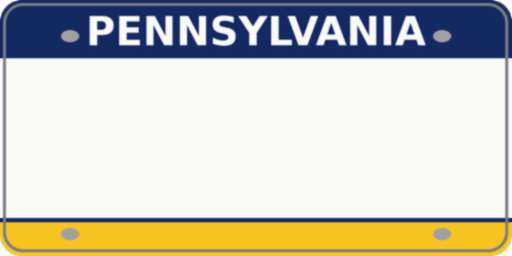
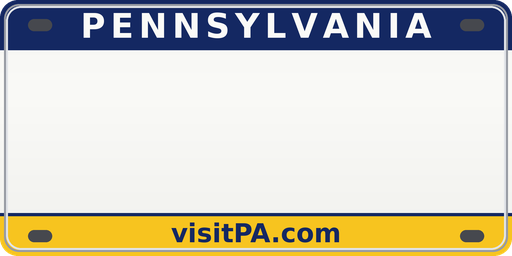
Heat as 1-5 stars, a star every 3 min of chase, fines by stars ($100 ticket for pulling over); realistic PA plate (keystone separator, visitPA band)
Claude-Session: https://claude.ai/code/session_01Um1Pid8zZd1Yuh4KwmS9F8

Changed region(s): [[0.0, 0.0, 1.0, 1.0]]

diff --git a/mod/beamng_earth/ui/modules/apps/BeamNGEarthWallet/app.js b/mod/beamng_earth/ui/modules/apps/BeamNGEarthWallet/app.js
@@ -7,7 +7,7 @@ angular.module('beamng.apps')
         '<span ng-show="text" style="background:rgba(12,14,18,0.82);border-radius:10px;padding:6px 14px;font-size:20px;font-weight:800;' +
         'font-family:\'Inter Tight\',\'Segoe UI\',sans-serif;" ng-style="{color: neg ? \'#ff6b6b\' : \'#7ee08a\'}">{{ text }}</span>' +
         '<span ng-show="heat >= 1" style="margin-left:6px;background:rgba(12,14,18,0.82);border-radius:10px;padding:6px 10px;font-size:14px;font-weight:800;' +
-        'font-family:\'Inter Tight\',\'Segoe UI\',sans-serif;" ng-style="{color: heat >= 60 ? \'#ff4d4d\' : (heat >= 15 ? \'#ffb84d\' : \'#c9ced6\')}">HEAT {{ heat.toFixed(0) }}</span>' +
+        'font-family:\'Inter Tight\',\'Segoe UI\',sans-serif;" ng-style="{color: heat >= 4 ? \'#ff4d4d\' : (heat >= 2 ? \'#ffb84d\' : \'#c9ced6\')}">{{ stars }}</span>' +
       '</div>',
     replace: true,
     link: function (scope) {
@@ -20,7 +20,8 @@ angular.module('beamng.apps')
           scope.$evalAsync(function () {
             scope.text = w ? w.text : ''
             scope.neg = !!(w && w.balance < 0)
-            scope.heat = w && w.heat ? w.heat : 0
+            scope.heat = w && w.heat ? Math.round(w.heat) : 0
+            scope.stars = scope.heat >= 1 ? new Array(scope.heat + 1).join('\u2605') : ''
           })
         })
       }

diff --git a/tools/generate_pa_plate.py b/tools/generate_pa_plate.py
@@ -1,7 +1,7 @@
 """The Pennsylvania-style license plate (the user, 2026-10-26: "make a PA license plate model for the game and add it to
-the license plate options"): a 30 x 15 cm (US) plate design for BeamNG's plate system (Skia template, version 3): a
-white face with a dark blue band and PENNSYLVANIA across the top, a yellow band along the bottom, and the number in
-dark blue between (drawn by the game from the template, so any plate text works). Writes the background, the template
+the license plate options"): a 30 x 15 cm (US) plate design for BeamNG's plate system (Skia template, version 3): as the
+real one looks: a white reflective face, a navy band with PENNSYLVANIA across the top, a yellow band with the web
+address along the bottom, and the number in navy with the keystone between the letters and the digits (drawn by the game from the template, so any plate text works). Writes the background, the template
 and the part file into mod/beamng_earth/vehicles/common/licenseplates/bne_pennsylvania/.
 """
 import json
@@ -23,43 +23,67 @@ BLUE, YELLOW, WHITE, INK = (20, 40, 98), (247, 196, 31), (250, 250, 247), (22, 4
 def background():
     s = 4                                           # drawn large, scaled down: smooth edges
     im = Image.new("RGBA", (W * s, H * s), (0, 0, 0, 0))
-    d = ImageDraw.Draw(im)
-    d.rounded_rectangle([0, 0, W * s - 1, H * s - 1], radius=22 * s, fill=WHITE)
     face = Image.new("L", im.size, 0)
-    ImageDraw.Draw(face).rounded_rectangle([0, 0, W * s - 1, H * s - 1], radius=22 * s, fill=255)
-    bands = Image.new("RGBA", im.size, (0, 0, 0, 0))
-    b = ImageDraw.Draw(bands)
-    b.rectangle([0, 0, W * s, 58 * s], fill=BLUE)                   # top band
-    b.rectangle([0, (H - 34) * s, W * s, H * s], fill=YELLOW)       # bottom band
-    b.rectangle([0, (H - 38) * s, W * s, (H - 34) * s], fill=BLUE)  # its thin blue edge
-    im.paste(bands, (0, 0), Image.composite(bands, Image.new("RGBA", im.size), face))
-    f = kmh.choose_font(40 * s)
-    t = "PENNSYLVANIA"
-    tw = d.textlength(t, font=f)
-    d.text(((W * s - tw) / 2, 8 * s), t, font=f, fill=WHITE)
-    for x in (70, W - 70):                                         # bolt holes
-        for y in (36, H - 22):
-            d.ellipse([(x - 9) * s, (y - 6) * s, (x + 9) * s, (y + 6) * s], fill=(160, 160, 160))
-    d.rounded_rectangle([3 * s, 3 * s, (W - 4) * s, (H - 4) * s], radius=20 * s, outline=(120, 124, 132), width=3 * s)
-    im = im.resize((W, H), Image.LANCZOS)
-    return im.filter(ImageFilter.SMOOTH)
+    ImageDraw.Draw(face).rounded_rectangle([0, 0, W * s - 1, H * s - 1], radius=18 * s, fill=255)
+    art = Image.new("RGBA", im.size, WHITE)
+    d = ImageDraw.Draw(art)
+    for y in range(H * s):                          # a faint sheen down the face (reflective sheeting)
+        k = 1.0 - 0.06 * abs(y / (H * s) - 0.35)
+        d.line([(0, y), (W * s, y)], fill=tuple(int(c * k) for c in WHITE) + (255,))
+    d.rectangle([0, 0, W * s, 50 * s], fill=BLUE)                       # the navy band, PENNSYLVANIA
+    d.rectangle([0, (H - 40) * s, W * s, H * s], fill=YELLOW)           # the yellow band, the web address
+    d.rectangle([0, (H - 43) * s, W * s, (H - 40) * s], fill=BLUE)
+    f = kmh.choose_font(34 * s)
+    t, track = "PENNSYLVANIA", 5 * s                                     # letter-spaced, between the bolt holes
+    tw = sum(d.textlength(c, font=f) for c in t) + track * (len(t) - 1)
+    x = (W * s - tw) / 2
+    for c in t:
+        d.text((x, 6 * s), c, font=f, fill=WHITE)
+        x += d.textlength(c, font=f) + track
+    f2 = kmh.choose_font(26 * s)
+    t2 = "visitPA.com"
+    d.text(((W * s - d.textlength(t2, font=f2)) / 2, (H - 38) * s), t2, font=f2, fill=BLUE)
+    for x in (40, W - 40):                                              # bolt holes (slots, as stamped)
+        for y in (25, H - 20):
+            d.rounded_rectangle([(x - 12) * s, (y - 6) * s, (x + 12) * s, (y + 6) * s], radius=6 * s,
+                                fill=(70, 72, 78))
+    for i, col in enumerate(((150, 154, 162), (225, 228, 232))):        # the stamped rim: shade, then light
+        o = (4 + i * 2) * s
+        d.rounded_rectangle([o, o, W * s - 1 - o, H * s - 1 - o], radius=15 * s, outline=col, width=2 * s)
+    im.paste(art, (0, 0), face)
+    return im.resize((W, H), Image.LANCZOS)
+
+
+def keystone():
+    """The keystone between the letters and the numbers (navy, on transparent)."""
+    s, w, h = 4, 40, 48
+    im = Image.new("RGBA", (w * s, h * s), (0, 0, 0, 0))
+    d = ImageDraw.Draw(im)
+    # Pennsylvania's keystone: wide at the top, narrowing to the base, the top corners clipped
+    pts = [(4, 2), (36, 2), (40, 8), (32, 46), (8, 46), (0, 8)]
+    d.polygon([(x * s, y * s) for x, y in pts], fill=INK)
+    return im.resize((w, h), Image.LANCZOS)
 
 
 def template():
+    text = {"type": "text", "font": "plate", "fontSize": 104, "fit": "shrink", "color": "#16295f", "letterSpacing": 3,
+            "style": {"height": 118}}
     return {
         "name": NAME, "version": 3, "type": "licenseplate",
-        "vars": {"plate": {"type": "string", "default": "{L}{L}{L}-{d}{d}{d}{d}",
+        "vars": {"plate": {"type": "string", "default": "{L}{L}{L}{d}{d}{d}{d}",
                            "charsets": {"L": "ABCDEFGHJKLMNPRSTUVWXYZ", "d": "0123456789"}, "maxLength": 8}},
         "format": {"30-15": {
             "size": [W, H],
             "background": f"vehicles/common/licenseplates/{NAME}/{NAME}_background_d.png",
-            "emboss": 3.0,
-            "finish": {"roughness": 0.35, "metallic": 0.1, "fgRoughness": 0.3, "fgMetallic": 0.2},
-            "root": {"style": {"width": "100%", "height": "100%", "alignItems": "center", "justifyContent": "center",
-                               "paddingTop": 34, "paddingBottom": 30},
-                     "children": [{"type": "text", "name": "plate", "text": "{plate}", "font": "plate", "fontSize": 92,
-                                   "fit": "shrink", "color": "#162a68", "letterSpacing": 2,
-                                   "style": {"width": "92%", "height": 120}}]}}},
+            "emboss": 4.0, "limit": 3, "limit2": 5,
+            "finish": {"roughness": 0.3, "metallic": 0.15, "fgRoughness": 0.25, "fgMetallic": 0.25},
+            "root": {"style": {"width": "100%", "height": "100%", "flexDirection": "row", "alignItems": "center",
+                               "justifyContent": "center", "paddingTop": 26, "paddingBottom": 30, "gap": 8},
+                     "children": [
+                         dict(text, name="left", text="{line1}"),
+                         {"type": "image", "name": "keystone", "src": f"vehicles/common/licenseplates/{NAME}/{NAME}_keystone.png",
+                          "style": {"width": 40, "height": 48}},
+                         dict(text, name="right", text="{line2}")]}}},
     }
 
 
@@ -73,6 +97,7 @@ def part():
 def main():
     os.makedirs(OUT, exist_ok=True)
     background().save(os.path.join(OUT, f"{NAME}_background_d.png"))
+    keystone().save(os.path.join(OUT, f"{NAME}_keystone.png"))
     with open(os.path.join(OUT, f"{NAME}.sktemplate.json"), "w", encoding="utf-8") as fh:
         json.dump(template(), fh, indent=2)
     with open(os.path.join(OUT, f"{NAME}-2-1.jbeam"), "w", encoding="utf-8") as fh:

diff --git a/server/tests/test_plates.py b/server/tests/test_plates.py
@@ -19,7 +19,11 @@ class PlateTest(unittest.TestCase):
         bg = Path(__file__).resolve().parents[2] / "mod" / "beamng_earth" / fmt["background"]
         self.assertEqual(Image.open(bg).size, tuple(fmt["size"]))
         self.assertEqual(Image.open(bg).size, (512, 256))
-        self.assertIn("{plate}", json.dumps(fmt["root"]))
+        root = json.dumps(fmt["root"])
+        self.assertIn("{line1}", root)                  # letters | keystone | digits
+        self.assertIn("{line2}", root)
+        self.assertEqual((fmt["limit"], fmt["limit2"]), (3, 5))
+        self.assertTrue((D / "bne_pennsylvania_keystone.png").exists())
 
 
 if __name__ == "__main__":
